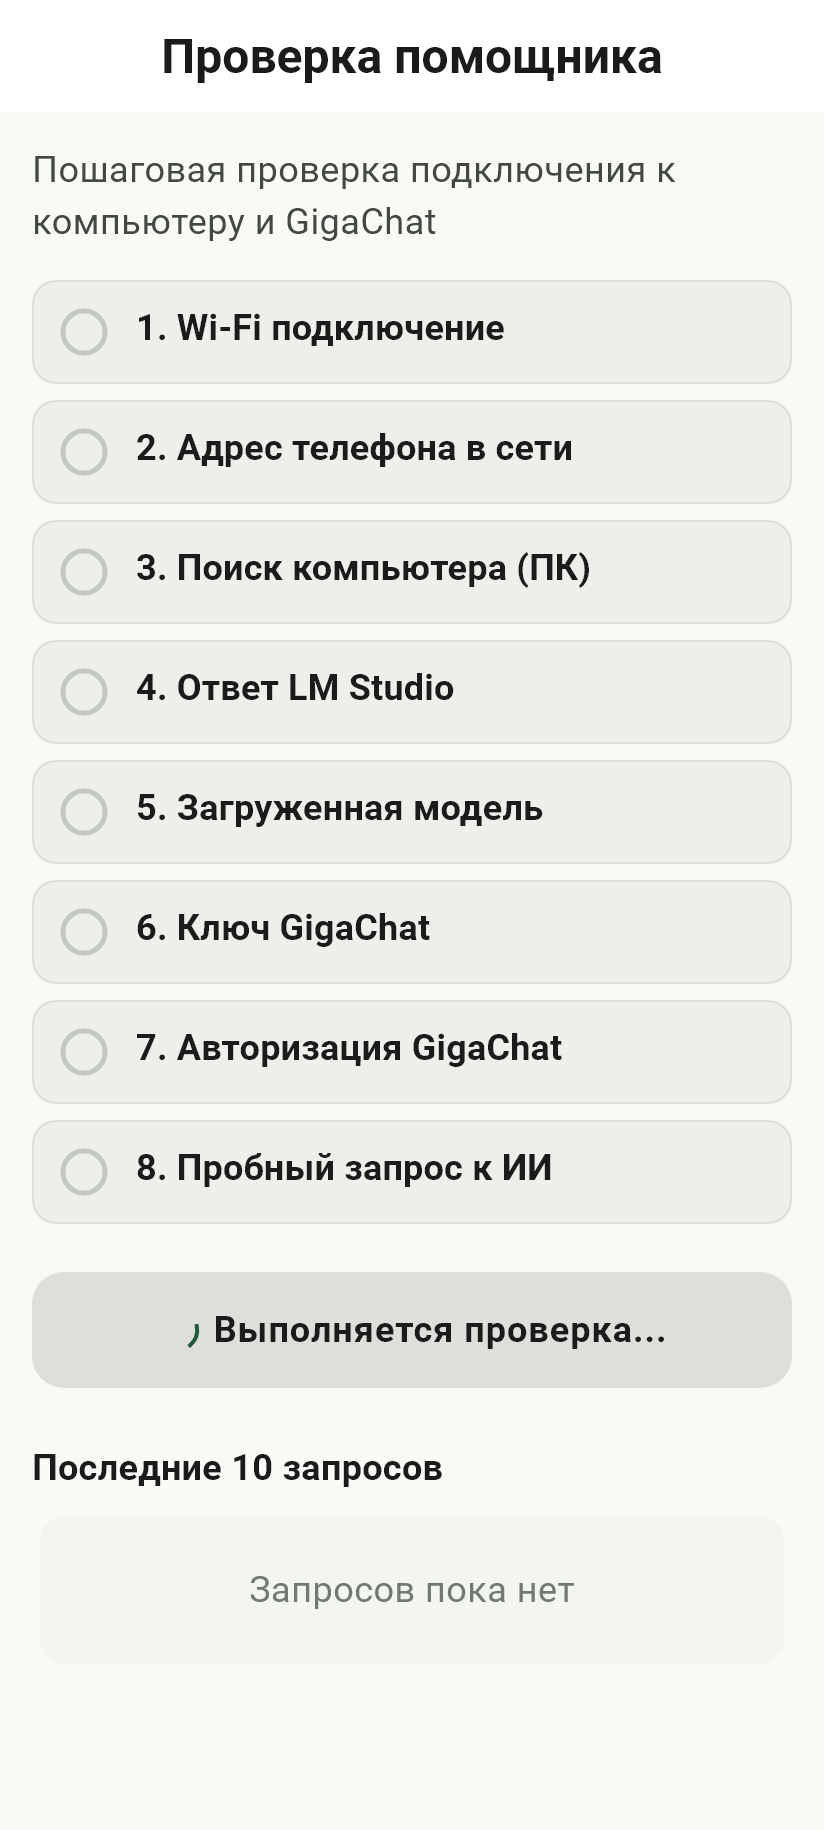
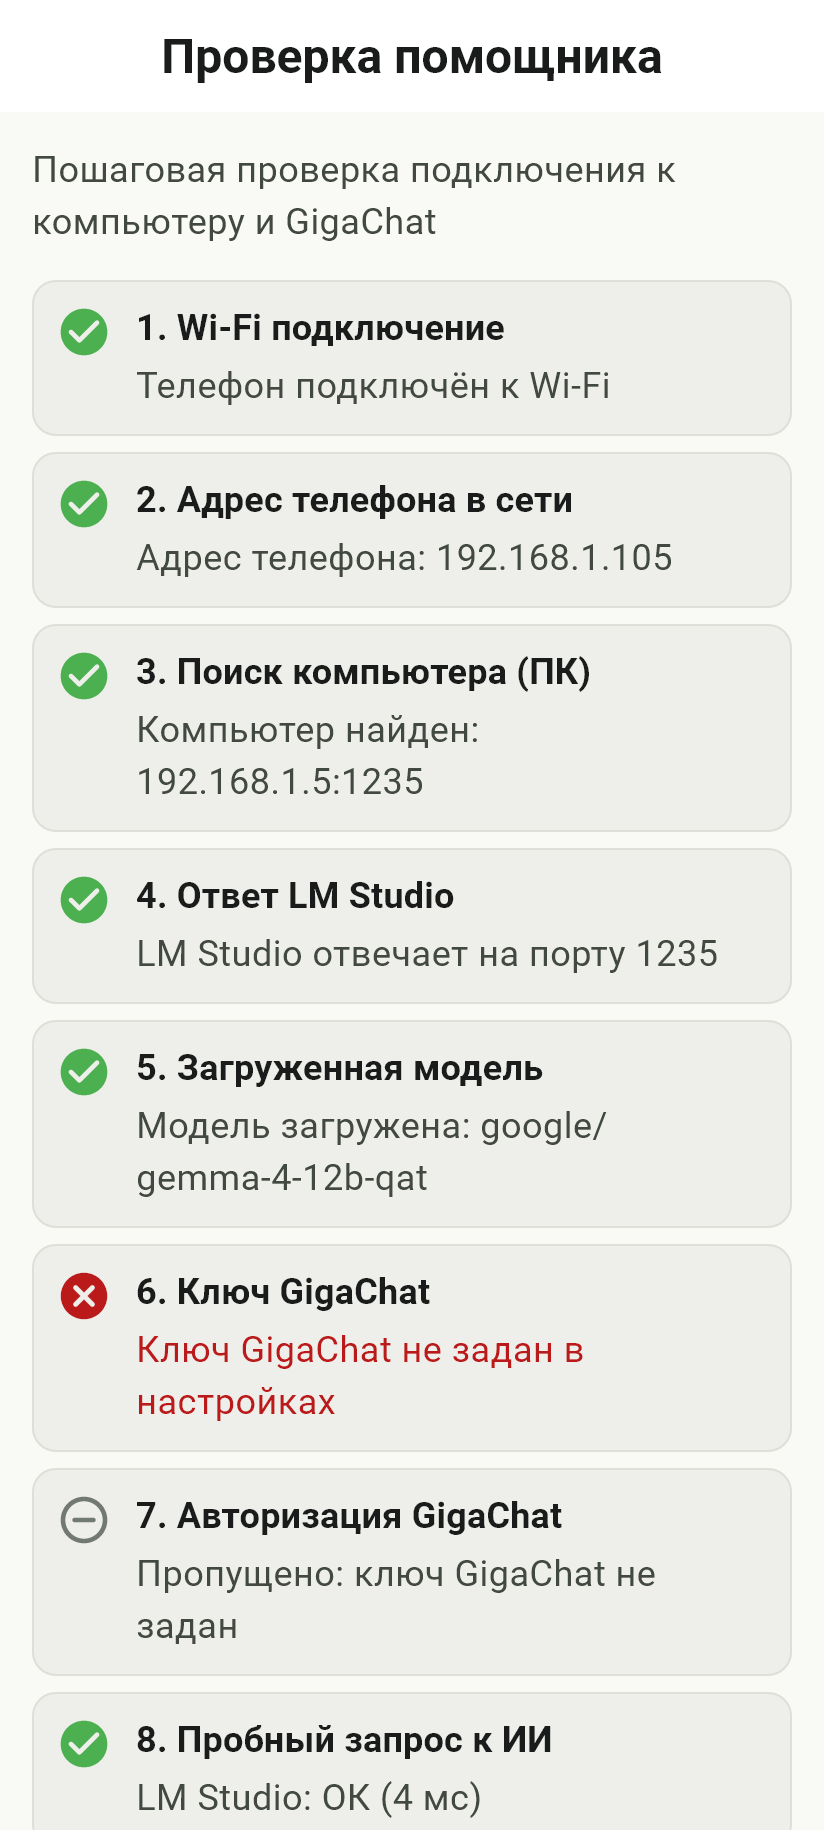
R4-07: Capture ai_diagnostics screenshot with completed checks and request history

diff --git a/test/screenshots_test.dart b/test/screenshots_test.dart
@@ -1,9 +1,12 @@
+import 'dart:convert';
 import 'dart:io';
 import 'dart:ui' as ui;
 
 import 'package:chto_prigotovit/app/theme.dart';
 import 'package:chto_prigotovit/core/ai/ai_failure.dart';
 import 'package:chto_prigotovit/core/ai/ai_service.dart';
+import 'package:chto_prigotovit/core/ai/ai_settings_service.dart';
+import 'package:chto_prigotovit/core/ai/pc_discovery.dart';
 import 'package:chto_prigotovit/core/db/app_database.dart';
 import 'package:chto_prigotovit/core/db/daos/pantry_dao.dart';
 import 'package:chto_prigotovit/core/providers.dart';
@@ -16,14 +19,143 @@ import 'package:chto_prigotovit/features/recipe/recipe_screen.dart';
 import 'package:chto_prigotovit/features/settings/ai_diagnostics_screen.dart';
 import 'package:chto_prigotovit/features/suggestions/suggestions_screen.dart';
 import 'package:chto_prigotovit/l10n/app_localizations.dart';
+import 'package:connectivity_plus/connectivity_plus.dart';
+import 'package:dio/dio.dart';
+import 'package:drift/drift.dart' as drift;
 import 'package:drift/native.dart';
 import 'package:flutter/material.dart';
 import 'package:flutter/rendering.dart';
 import 'package:flutter/services.dart';
 import 'package:flutter_localizations/flutter_localizations.dart';
 import 'package:flutter_riverpod/flutter_riverpod.dart';
+import 'package:flutter_secure_storage/flutter_secure_storage.dart';
 import 'package:flutter_test/flutter_test.dart';
 import 'package:intl/date_symbol_data_local.dart';
+import 'package:network_info_plus/network_info_plus.dart';
+
+class _MockLmStudioAdapter implements HttpClientAdapter {
+  @override
+  Future<ResponseBody> fetch(
+    RequestOptions options,
+    Stream<Uint8List>? requestStream,
+    Future<void>? cancelFuture,
+  ) async {
+    if (options.path.endsWith('/v1/models')) {
+      final json = jsonEncode({
+        'data': [
+          {'id': 'google/gemma-4-12b-qat'},
+        ],
+      });
+      return ResponseBody.fromString(
+        json,
+        200,
+        headers: {
+          Headers.contentTypeHeader: [Headers.jsonContentType],
+        },
+      );
+    }
+    if (options.path.endsWith('/v1/chat/completions')) {
+      final json = jsonEncode({
+        'choices': [
+          {
+            'message': {'role': 'assistant', 'content': 'готов'},
+          },
+        ],
+        'usage': {
+          'prompt_tokens': 12,
+          'completion_tokens': 2,
+          'total_tokens': 14,
+        },
+      });
+      return ResponseBody.fromString(
+        json,
+        200,
+        headers: {
+          Headers.contentTypeHeader: [Headers.jsonContentType],
+        },
+      );
+    }
+    return ResponseBody.fromString('Not found', 404);
+  }
+
+  @override
+  void close({bool force = false}) {}
+}
+
+class _FakeConnectivity extends Fake implements Connectivity {
+  @override
+  Future<List<ConnectivityResult>> checkConnectivity() async => [
+    ConnectivityResult.wifi,
+  ];
+}
+
+class _FakeNetworkInfo extends Fake implements NetworkInfo {
+  @override
+  Future<String?> getWifiIP() async => '192.168.1.105';
+}
+
+class _FakePcDiscovery extends PcDiscovery {
+  @override
+  Future<bool> probeHost(
+    String host,
+    int port, {
+    Duration timeout = const Duration(milliseconds: 300),
+  }) async => true;
+
+  @override
+  Future<String?> discover({
+    String? savedHost,
+    int port = 1234,
+    List<int>? candidatePorts,
+    bool force = false,
+  }) async => '192.168.1.5';
+
+  @override
+  int? get lastDiscoveredPort => 1235;
+}
+
+class _FakeSecureStorage extends Fake implements FlutterSecureStorage {
+  final Map<String, String> _data = {};
+
+  @override
+  Future<String?> read({
+    required String key,
+    AppleOptions? iOptions,
+    AndroidOptions? aOptions,
+    LinuxOptions? lOptions,
+    WebOptions? webOptions,
+    AppleOptions? mOptions,
+    WindowsOptions? wOptions,
+  }) async => _data[key];
+
+  @override
+  Future<void> write({
+    required String key,
+    required String? value,
+    AppleOptions? iOptions,
+    AndroidOptions? aOptions,
+    LinuxOptions? lOptions,
+    WebOptions? webOptions,
+    AppleOptions? mOptions,
+    WindowsOptions? wOptions,
+  }) async {
+    if (value != null) {
+      _data[key] = value;
+    } else {
+      _data.remove(key);
+    }
+  }
+
+  @override
+  Future<Map<String, String>> readAll({
+    AppleOptions? iOptions,
+    AndroidOptions? aOptions,
+    LinuxOptions? lOptions,
+    WebOptions? webOptions,
+    AppleOptions? mOptions,
+    WindowsOptions? wOptions,
+  }) async => Map.unmodifiable(_data);
+}
 
 // R2-03: screenshots for reports. Widget tests render text with the Ahem
 // test font (boxes instead of letters) and do not wait for asset images, so
@@ -207,10 +339,70 @@ void main() {
       addTearDown(tester.view.resetPhysicalSize);
       addTearDown(tester.view.resetDevicePixelRatio);
 
+      final now = DateTime.now().millisecondsSinceEpoch;
+      await db
+          .into(db.aiRequests)
+          .insert(
+            AiRequestsCompanion.insert(
+              kind: 'suggest_dishes',
+              promptHash: 'h1',
+              responseJson: jsonEncode({'dishes': []}),
+              model: 'google/gemma-4-12b-qat',
+              status: 'ok',
+              at: drift.Value(now - 120000),
+            ),
+          );
+      await db
+          .into(db.aiRequests)
+          .insert(
+            AiRequestsCompanion.insert(
+              kind: 'full_recipe',
+              promptHash: 'h2',
+              responseJson: jsonEncode({'title': 'Борщ'}),
+              model: 'google/gemma-4-12b-qat',
+              status: 'ok',
+              at: drift.Value(now - 60000),
+            ),
+          );
+      await db
+          .into(db.aiRequests)
+          .insert(
+            AiRequestsCompanion.insert(
+              kind: 'suggest_dishes',
+              promptHash: 'h3',
+              responseJson: jsonEncode({
+                'error': 'timeout',
+                'message': 'Нет связи с ПК',
+              }),
+              model: 'google/gemma-4-12b-qat',
+              status: 'error',
+              at: drift.Value(now),
+            ),
+          );
+
+      final fakeStorage = _FakeSecureStorage();
+      await fakeStorage.write(key: 'ai_lm_studio_host', value: '192.168.1.5');
+      await fakeStorage.write(key: 'ai_lm_studio_port', value: '1235');
+      await fakeStorage.write(
+        key: 'ai_lm_studio_model',
+        value: 'google/gemma-4-12b-qat',
+      );
+      await fakeStorage.write(key: 'ai_gigachat_auth_key', value: '');
+
+      final aiSettingsService = AiSettingsService(storage: fakeStorage);
+      final mockDio = Dio()..httpClientAdapter = _MockLmStudioAdapter();
+
       const key = ValueKey('ai_diagnostics.png');
       await tester.pumpWidget(
         ProviderScope(
-          overrides: [databaseProvider.overrideWithValue(db)],
+          overrides: [
+            databaseProvider.overrideWithValue(db),
+            connectivityProvider.overrideWithValue(_FakeConnectivity()),
+            networkInfoProvider.overrideWithValue(_FakeNetworkInfo()),
+            pcDiscoveryProvider.overrideWithValue(_FakePcDiscovery()),
+            aiSettingsServiceProvider.overrideWithValue(aiSettingsService),
+            lmStudioDioProvider.overrideWithValue(mockDio),
+          ],
           child: MaterialApp(
             debugShowCheckedModeBanner: false,
             theme: AppTheme.light,
@@ -227,7 +419,7 @@ void main() {
         ),
       );
       await tester.pump();
-      await tester.pump(const Duration(seconds: 1));
+      await tester.pumpAndSettle();
       await _capture(tester, key, 'ai_diagnostics.png', precache: false);
       expect(File('docs/reports/img/ai_diagnostics.png').existsSync(), isTrue);
     });

diff --git a/lib/core/providers.dart b/lib/core/providers.dart
@@ -4,6 +4,7 @@ import 'package:flutter/services.dart' show rootBundle;
 import 'package:flutter/widgets.dart';
 import 'package:clock/clock.dart';
 import 'package:connectivity_plus/connectivity_plus.dart';
+import 'package:dio/dio.dart';
 import 'package:mobile_scanner/mobile_scanner.dart';
 import 'package:network_info_plus/network_info_plus.dart';
 import 'package:flutter_riverpod/flutter_riverpod.dart';
@@ -386,6 +387,8 @@ final pcDiscoveryProvider = Provider<PcDiscovery>((ref) {
   final networkInfo = ref.watch(networkInfoProvider);
   return PcDiscovery(connectivity: connectivity, networkInfo: networkInfo);
 });
+
+final lmStudioDioProvider = Provider<Dio?>((ref) => null);
 
 final pcAutoDiscoveryServiceProvider = Provider<PcAutoDiscoveryService?>((ref) {
   return ref.watch(aiRouterProvider).autoDiscovery;

diff --git a/lib/features/settings/ai_diagnostics_screen.dart b/lib/features/settings/ai_diagnostics_screen.dart
@@ -276,6 +276,7 @@ class _AiDiagnosticsScreenState extends ConsumerState<AiDiagnosticsScreen> {
           apiKey: settings.lmStudioApiKey.isNotEmpty
               ? settings.lmStudioApiKey
               : null,
+          dio: ref.read(lmStudioDioProvider),
         );
         loadedModels = await lm.getModels(timeout: const Duration(seconds: 3));
         lmStudioOk = true;
@@ -446,6 +447,7 @@ class _AiDiagnosticsScreenState extends ConsumerState<AiDiagnosticsScreen> {
           apiKey: settings.lmStudioApiKey.isNotEmpty
               ? settings.lmStudioApiKey
               : null,
+          dio: ref.read(lmStudioDioProvider),
         );
         await lm.chat(
           const AiChatRequest(

diff --git a/docs/TASKS.md b/docs/TASKS.md
@@ -218,7 +218,7 @@
 - [x] **R4-04** **Белый текст на розовом.** Плашка «Не хватает: …» нечитаема: в теме не заданы `errorContainer` и `onErrorContainer`, поэтому `ColorScheme` подставляет `error` и белый `onError`. Задать их в обеих темах (светлая: `errorContainer 0xFFFFDAD6`, `onErrorContainer 0xFF410002`; тёмная: `0xFF93000A` / `0xFFFFDAD6`), фон плашки — `errorContainer` без прозрачности. `theme_contrast_test.dart` расширить на все пары `ColorScheme`: primary, secondary, tertiary, error и их container, surface и все surfaceContainer* с onSurface и onSurfaceVariant.
 - [x] **R4-05** **Обрезанный текст в кнопках.** На `ai_diagnostics.png` у кнопки «Выполняется проверка…» срезан низ строки. Тест переполнений это не ловит: обрезка не даёт ошибку RenderFlex. Найти все кнопки и контейнеры с фиксированной высотой (`fixedSize`, `SizedBox(height:)` вокруг текста, `minimumSize` с фиксированной высотой вместе с `maximumSize`) и заменить на минимальную высоту. В `overflow_all_screens_test.dart` добавить проверку: у каждого `RenderParagraph` без `maxLines` высота текста (`textPainter` / `getMaxIntrinsicHeight` для его ширины) не больше его `size.height`, и ни один `RenderParagraph` не выходит за границы ближайшего `RenderClip*` предка.
 - [x] **R4-06** **Фильтры видны целиком.** В «Блюда» чипы типа и сложности в горизонтальной прокрутке — «Средне» и «Сложно» уходят за край, бабушка их не найдёт. Сделать `Wrap` (переносом на вторую строку) или явный признак прокрутки. Проверить при шрифте 200 %.
-- [ ] **R4-07** **Скриншот диагностики с результатами.** `ai_diagnostics.png` снят до завершения проверки (все пункты пустые). С подставными провайдерами: Wi-Fi ✓, ПК ✓, модель ✓, ключ GigaChat ✗ («не задан»), пробный запрос ✓; 3 записи в журнале.
+- [x] **R4-07** **Скриншот диагностики с результатами.** `ai_diagnostics.png` снят до завершения проверки (все пункты пустые). С подставными провайдерами: Wi-Fi ✓, ПК ✓, модель ✓, ключ GigaChat ✗ («не задан»), пробный запрос ✓; 3 записи в журнале.
 - [x] **R4-09** **Порт LM Studio 1235.** На ПК владельца порт 1234 занят, LM Studio работает на **1235**. Автопоиск сейчас проверяет только порт из настроек (по умолчанию 1234) — ПК не найдётся никогда. `PcDiscovery`: проверять порты по очереди — сохранённый, 1234, 1235 (найденный порт сохранять вместе с адресом). `tool/ai_smoke.dart`: порт из аргумента `--port` или переменной `LMSTUDIO_PORT`, по умолчанию пробовать 1234 и 1235. В `docs/INSTALL.md` раздел 2 заменить «кнопка Start Server» на запуск через `tool\start_lmstudio_server.bat` и правило брандмауэра для порта 1235. Тесты: сервер на 1235 → найден; сохранён порт 1235.
 - [x] **R4-10** **Подключение ПК по QR-коду — ПК.** `tool/pair_pc.dart` + `tool/pair_pc.bat` (`dart run tool/pair_pc.dart`), пакет `qr` (чистый Dart) в `dev_dependencies`.
     1. Адреса ПК: `NetworkInterface.list()`, только IPv4 из частных диапазонов (192.168/16, 10/8, 172.16/12). Пропускать 127.x, 169.254.x, **198.18.x** (TUN-адаптер FlClashX) и адаптеры с именами vEthernet, VirtualBox, VMware, Hyper-V, WSL. Порядок: Wi-Fi/Ethernet с шлюзом первыми.

diff --git a/docs/STATUS.md b/docs/STATUS.md
@@ -6,7 +6,7 @@
 
 - Этап: **исправления после проверки R3 (R4-01…R4-08, R4-09…R4-11)** — `docs/TASKS.md`, замечания — `docs/reports/REVIEW_R3_CHECK.md`
 - R3 принят частично (Claude, 2026-11-07): ошибки ИИ, диагностика, автопоиск ПК, автовыбор модели, ввод ключа — сделаны; R3-08 переоткрыт (настоящего прогона с LM Studio не было)
-- Последний зелёный прогон `tool/check.ps1`: 2026-11-07 21:32:28, 488 тестов
+- Последний зелёный прогон `tool/check.ps1`: 2026-11-07 21:38:55, 488 тестов
 - APK R3 (`app-arm64-v8a-release.apk`, 24.9 МБ) можно ставить владельцу для проверки ИИ вживую
 
 ## Проверить владельцу на устройстве
@@ -23,6 +23,7 @@
 
 | Дата | Задача | Результат | Комментарий |
 | --- | --- | --- | --- |
+| 2026-11-07 | R4-07 | Выполнено | Обновлён тест скриншотов `screenshots_test.dart` для экрана диагностики `AiDiagnosticsScreen`: добавлены подставные провайдеры (Wi-Fi ✓, телефон ✓, ПК ✓ 192.168.1.5:1235, модель ✓ `google/gemma-4-12b-qat`, ключ GigaChat ✗ «не задан в настройках», пробный запрос ✓) и 3 записи в истории `ai_requests`. Сгенерирован полноценный скриншот `docs/reports/img/ai_diagnostics.png` с завершёнными проверками и историей. 488 тестов |
 | 2026-11-07 | R4-06 | Выполнено | Чипы сложности в «Блюда» переведены на `Wrap` (все 4 чипа «Любая сложность», «Легко», «Средне», «Сложно» видны без горизонтальной прокрутки). Для строки типов блюд добавлен постоянный видимый `Scrollbar` и кнопка-стрелка «Ещё типы блюд». Пустое состояние обёрнуто в `SingleChildScrollView` (устранено переполнение RenderFlex при масштабе 200%). 488 тестов |
 | 2026-11-07 | R4-05 | Выполнено | Заменены все фиксированные высоты кнопок (`SizedBox(height: 52/56)`) на `minHeight: 56` и `minimumSize` в `AiDiagnosticsScreen`, `AiSettingsScreen`, `CookingScreen`, `PantryScreen`, `HistoryScreen`, `TastePreferencesScreen`, `BackupScreen`. В `CalendarScreen` адаптированы `daysOfWeekHeight` и базовые размеры шрифтов ячеек сетки календаря под 200% масштаб. В `overflow_all_screens_test.dart` добавлена проверка обрезки текста (`getMaxIntrinsicHeight` <= `size.height` и отсутствие выхода за пределы виджетных клипов `RenderClip*`). 488 тестов |
 | 2026-11-07 | R4-04 | Выполнено | Заданы контрастные пары `errorContainer` и `onErrorContainer` в светлой (`#FFDAD6` / `#410002`) и тёмной (`#93000A` / `#FFDAD6`) темах. Фон плашки «Не хватает: ...» сделан непрозрачным. В `test/theme_contrast_test.dart` добавлены проверки всех пар ColorScheme (primary, secondary, tertiary, error, surfaceContainer* >= 4.5:1). 488 тестов |
